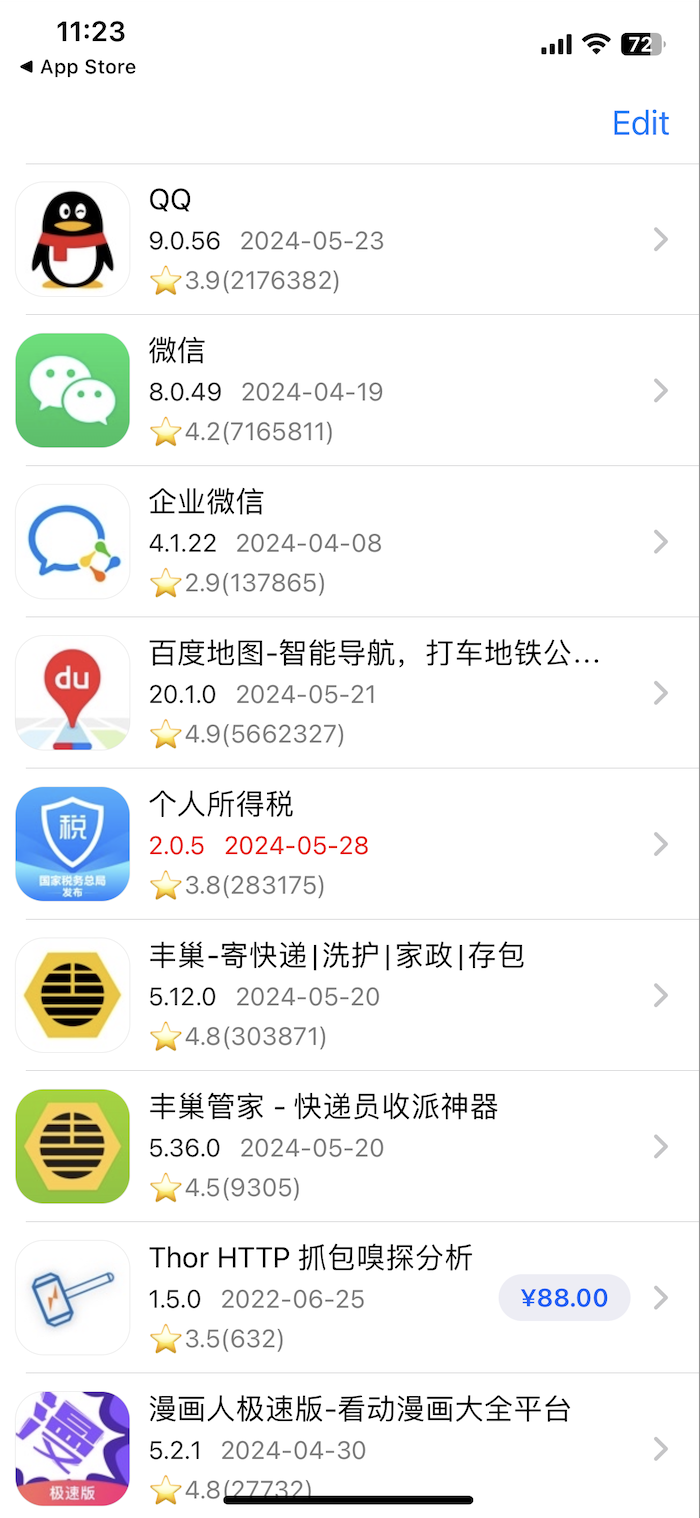
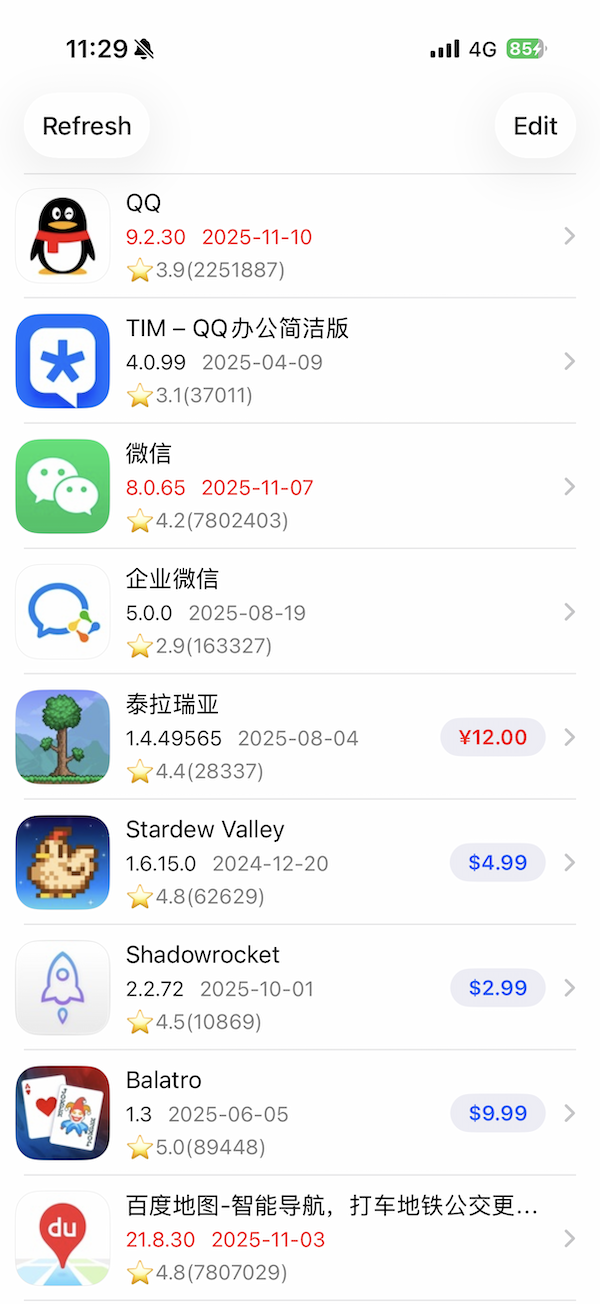
更新截图和git演示

diff --git a/README.md b/README.md
@@ -1,4 +1,4 @@
-以前App Store有收藏功能的，后来下掉了，于是我搞了一个App替代下掉的收藏功能，快速查看关注的App是否有更新版本、价格等等。
+以前App Store有收藏功能的，后来下掉了，于是我搞了一个App替代下掉的收藏功能，快速查看关注的App是否有更新版本或价格（对比上次打开，有更新的时候标红）。
 
 ![screenshot](./Media/screenshot.png)
 
